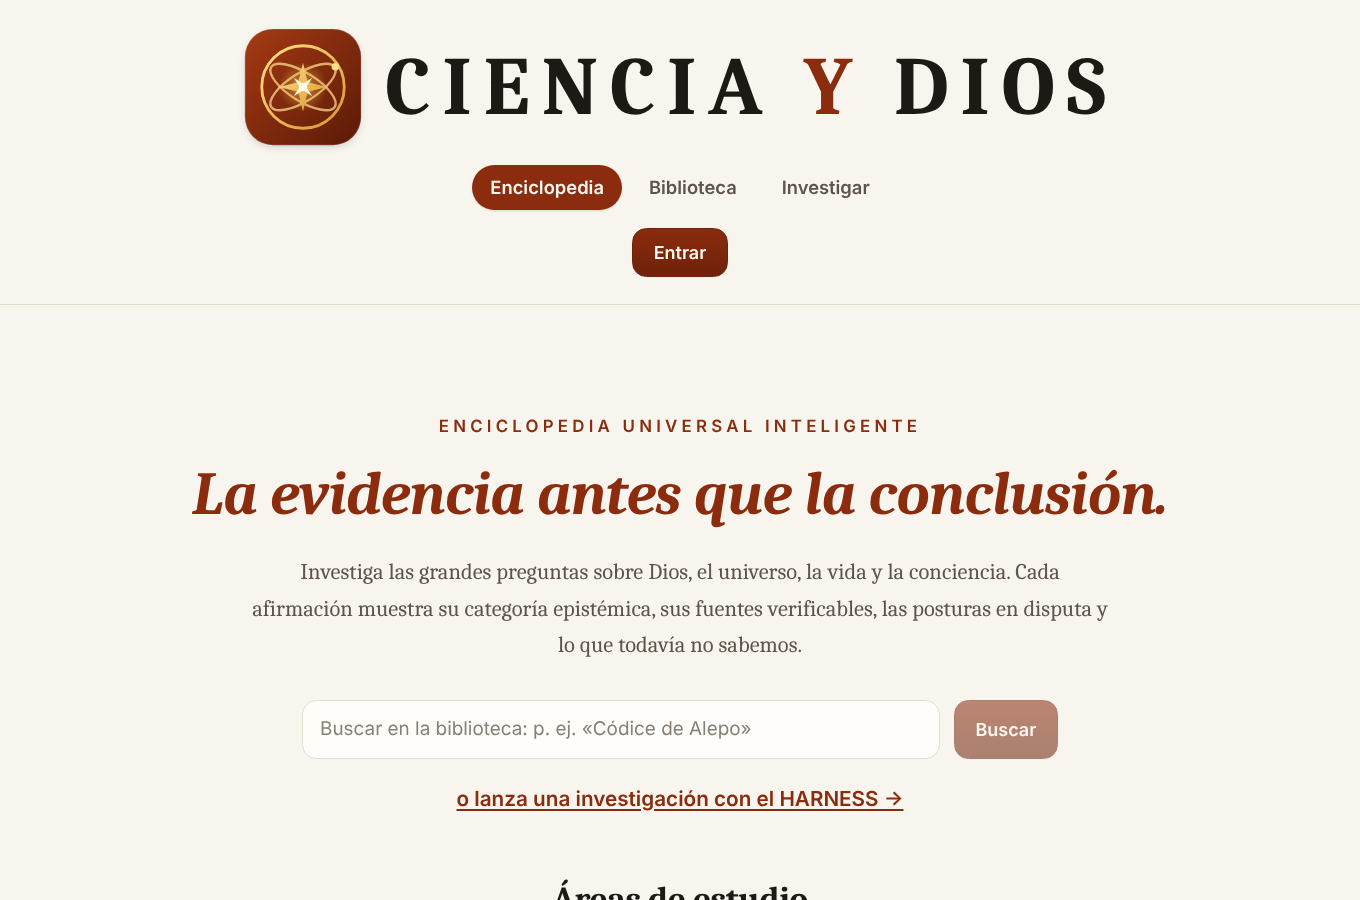
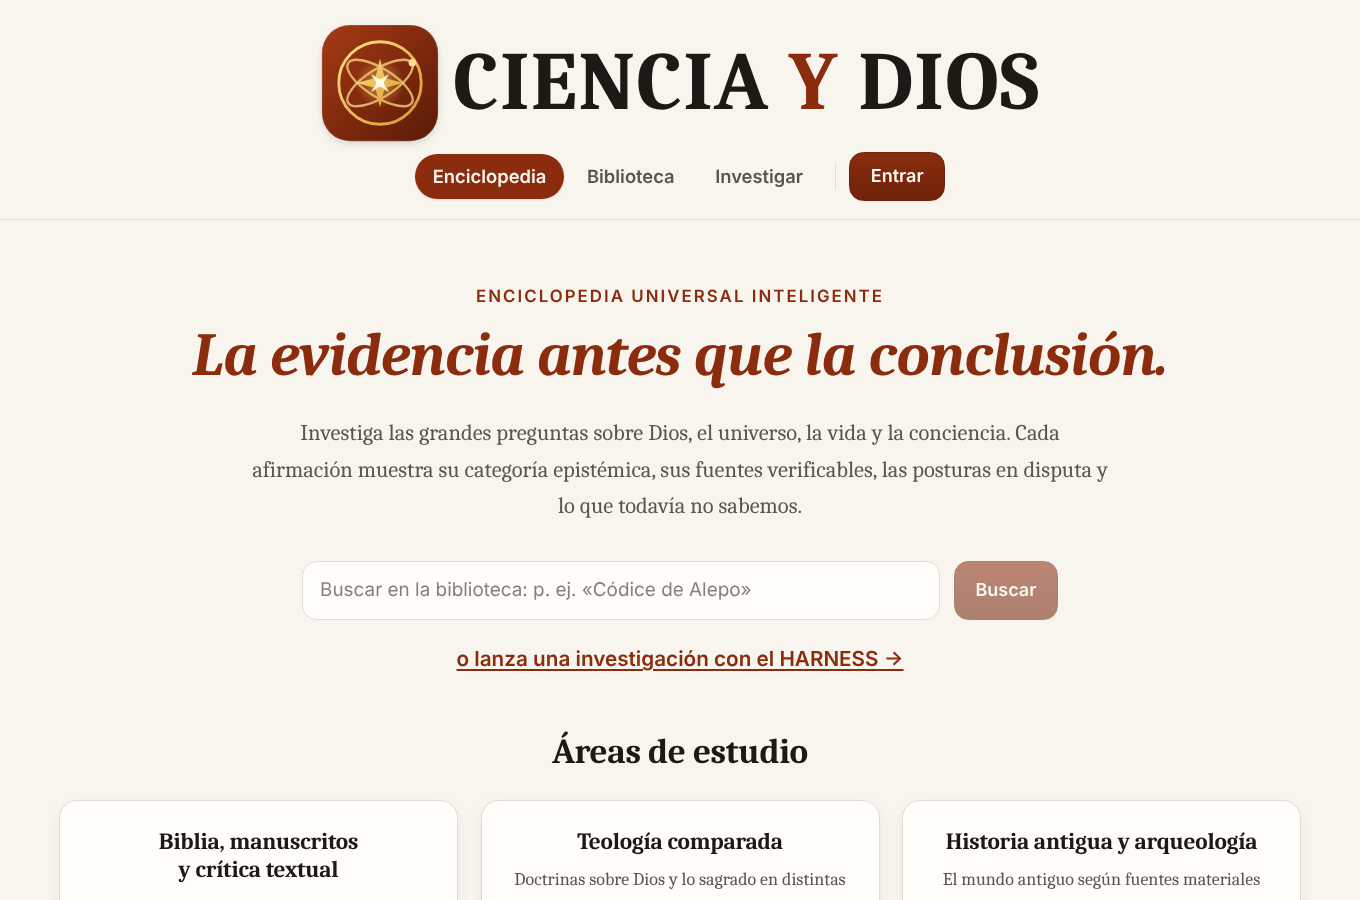
style(web): marca y cabecera más compactas
- «CIENCIA Y DIOS» con las letras juntas y el logo pegado al nombre.
- Menú y botón de sesión en una sola fila; menos espacio vertical en la cabecera y la portada.
- En móvil el menú cabe en una fila.

Claude-Session: https://claude.ai/code/session_012HkgCTLdcD8TMbisAVNTsT

diff --git a/apps/web/components/Nav.tsx b/apps/web/components/Nav.tsx
@@ -27,25 +27,26 @@ export function Nav() {
   return (
     <header className="ui sticky top-0 z-30 border-b backdrop-blur-md"
       style={{ borderColor: "var(--line)", background: "color-mix(in srgb, var(--bg) 82%, transparent)" }}>
-      <nav className={`mx-auto flex max-w-6xl flex-col items-center px-4 text-center transition-all duration-300 ${compact ? "gap-2 py-2 md:flex-row md:justify-between" : "gap-4 py-6"}`}
+      <nav className={`mx-auto flex max-w-6xl flex-col items-center px-4 text-center transition-all duration-300 ${compact ? "gap-1 py-2 md:flex-row md:justify-between" : "gap-2 pb-4 pt-5"}`}
         aria-label="Principal">
         <Link href="/" aria-label="CIENCIA Y DIOS — inicio" data-testid="brand"
-          className={`flex flex-col items-center gap-3 sm:flex-row sm:gap-5 ${compact ? "sm:gap-3" : ""}`}>
+          className={`flex flex-col items-center gap-1 sm:flex-row ${compact ? "sm:gap-2" : "sm:gap-3"}`}>
           <span className="transition-all duration-300" style={{ width: compact ? 48 : "clamp(84px, 9vw, 120px)" }}>
             <Logo size={512} className="h-auto w-full drop-shadow-md" />
           </span>
           <span className="font-bold leading-none transition-all duration-300"
-            style={{ fontFamily: "var(--font-serif)", letterSpacing: "0.14em", color: "var(--fg)",
+            style={{ fontFamily: "var(--font-serif)", letterSpacing: "0.015em", color: "var(--fg)",
                      fontSize: compact ? "clamp(1.3rem, 1rem + 1.4vw, 2rem)" : "clamp(2.1rem, 1rem + 5.2vw, 4.6rem)" }}>
             CIENCIA <span style={{ color: "var(--accent)" }}>Y</span> DIOS
           </span>
         </Link>
-        <div className="flex flex-wrap items-center justify-center gap-2">
+        <div className="flex flex-wrap items-center justify-center gap-x-3 gap-y-2">
+        <div className="flex flex-wrap items-center justify-center gap-x-1 gap-y-2">
           {links.map((l) => {
             const on = isActive(l.href);
             return (
               <Link key={l.href} href={l.href} aria-current={on ? "page" : undefined}
-                className={`rounded-full px-4 py-1.5 text-[1.02rem] font-semibold transition ${on
+                className={`rounded-full px-3 py-1.5 text-[0.9rem] font-semibold transition sm:px-4 sm:text-[1.02rem] ${on
                   ? "shadow-sm" : "muted hover:bg-[var(--accent-soft)] hover:text-[var(--accent)]"}`}
                 style={on ? { background: "var(--accent)", color: "var(--bg)" } : undefined}>
                 {l.label}
@@ -53,7 +54,8 @@ export function Nav() {
             );
           })}
         </div>
-        <div className="flex flex-wrap items-center justify-center gap-3 text-[0.95rem]">
+        <span className="hidden h-6 w-px sm:inline-block" style={{ background: "var(--line)" }} aria-hidden="true" />
+        <div className="flex flex-wrap items-center justify-center gap-2 text-[0.95rem]">
           {session ? (
             <>
               <span className="muted" data-testid="session-email">
@@ -65,6 +67,7 @@ export function Nav() {
           ) : (
             <Link className="btn btn-primary" href="/entrar">Entrar</Link>
           )}
+        </div>
         </div>
       </nav>
     </header>

diff --git a/apps/web/app/page.tsx b/apps/web/app/page.tsx
@@ -13,9 +13,9 @@ export default function Home() {
   useEffect(() => { api<Topic[]>("/v1/topics").then(setTopics).catch(() => setTopics([])); }, []);
   return (
     <div>
-      <section className="py-8 text-center sm:py-14">
-        <p className="ui accent text-sm font-semibold uppercase tracking-[0.25em]">Enciclopedia universal inteligente</p>
-        <h1 className="accent mt-4 italic" style={{ fontSize: "clamp(2rem, 1.2rem + 3vw, 3.4rem)" }}>
+      <section className="pb-8 pt-2 text-center sm:pb-12 sm:pt-4">
+        <p className="ui accent text-sm font-semibold uppercase tracking-[0.12em]">Enciclopedia universal inteligente</p>
+        <h1 className="accent mt-2 italic" style={{ fontSize: "clamp(2rem, 1.2rem + 3vw, 3.4rem)" }}>
           La evidencia antes que la conclusión.
         </h1>
         <p className="muted mx-auto mt-5 max-w-3xl text-xl leading-relaxed">
